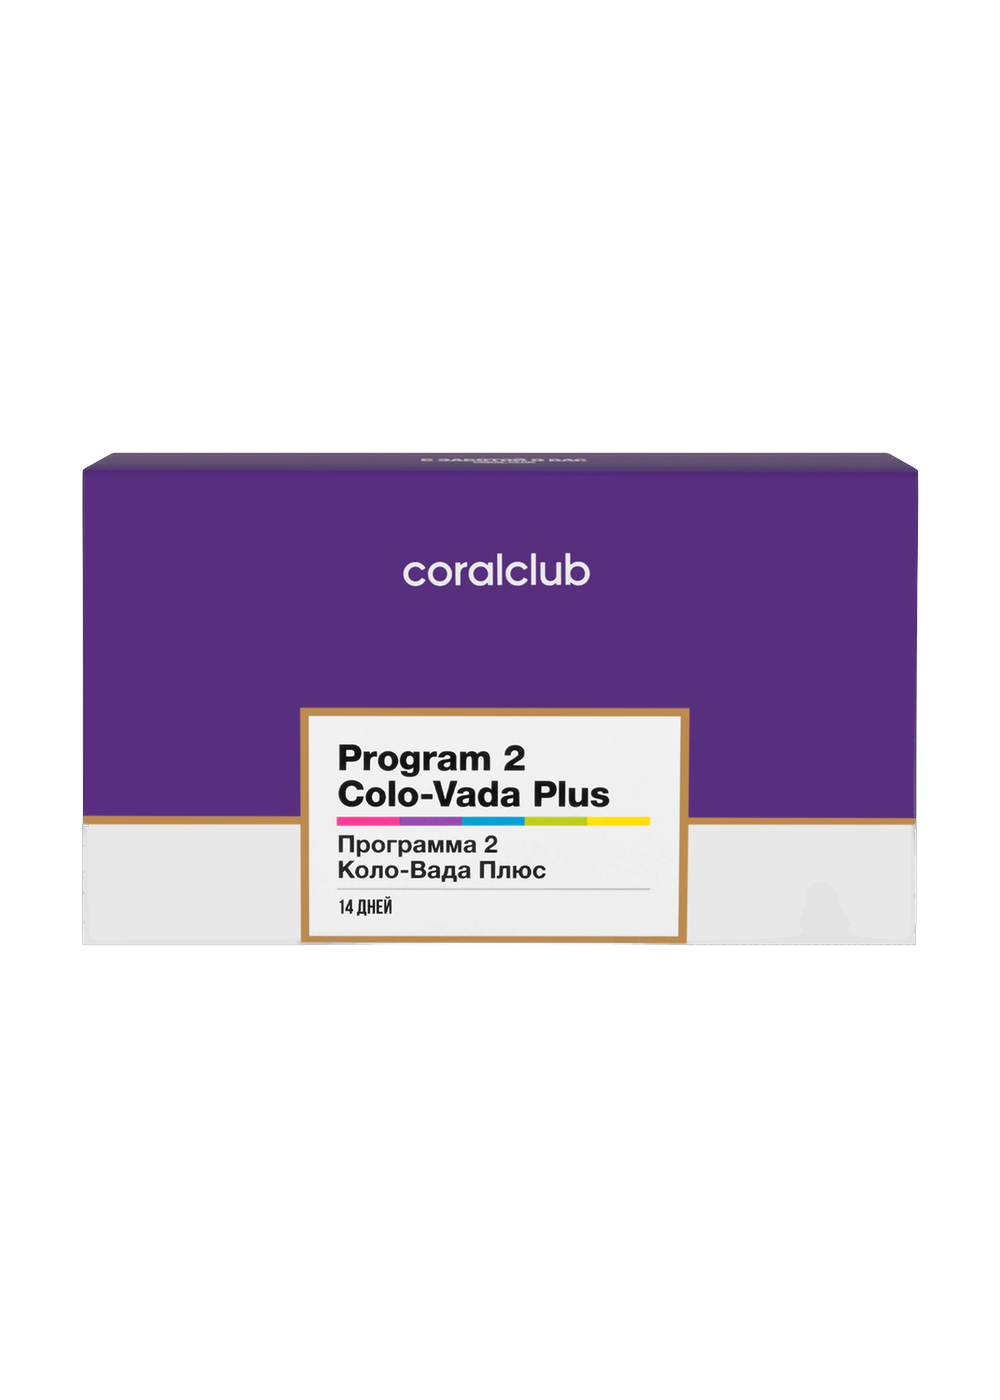
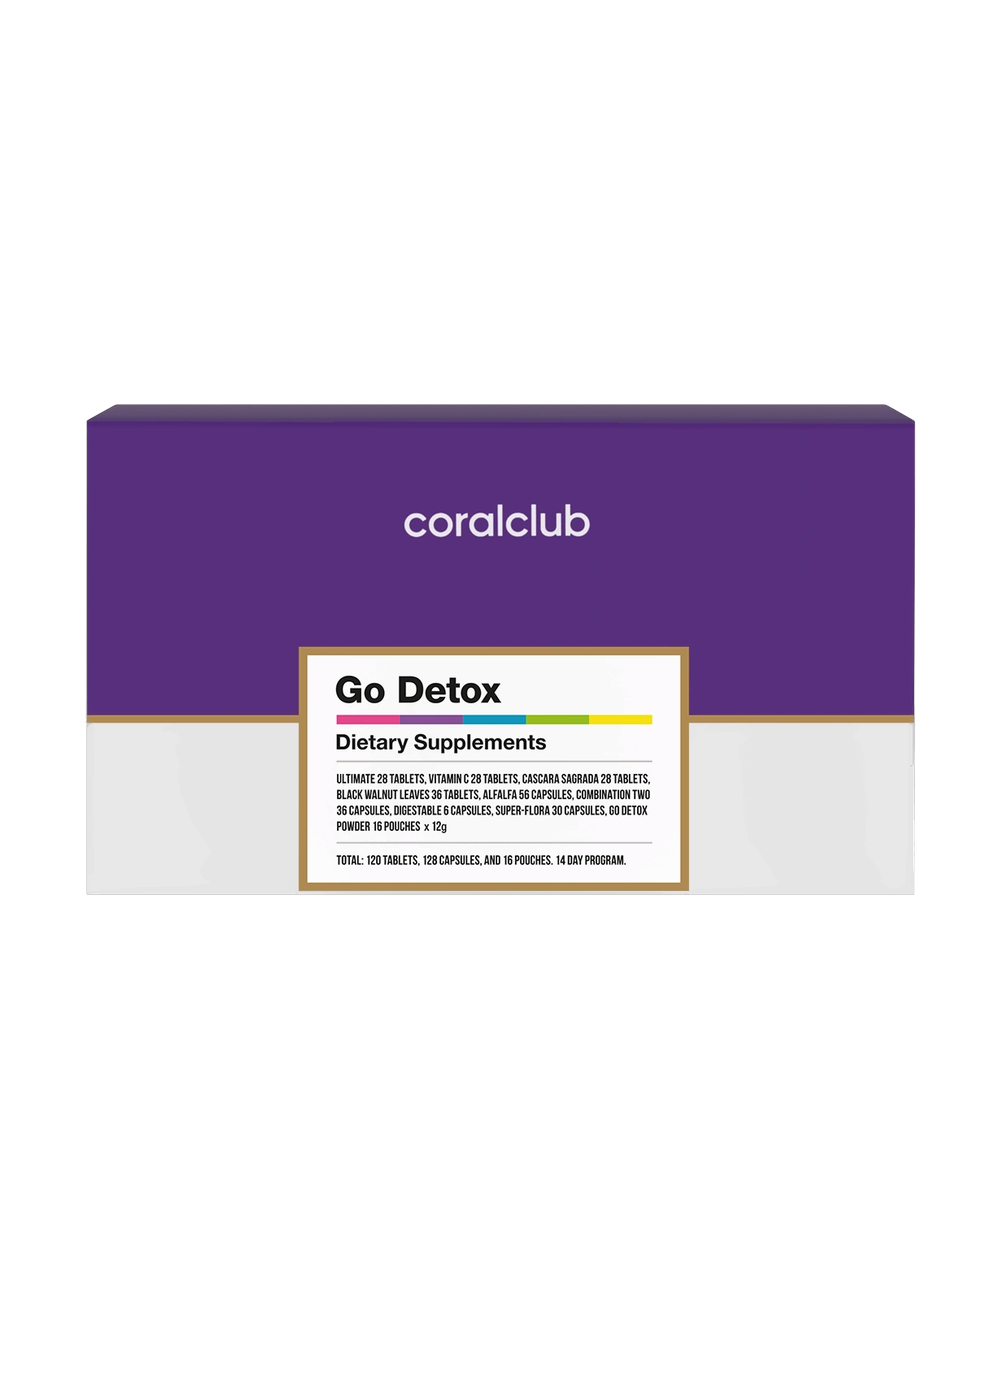
Colo-Vada Plus: pull real packshots from coralclub.us (sold there as "Go Detox")
The existing packshot was the Russian-label box; searching coralclub.us
for "Colo-Vada" finds nothing because the US product is named "Go Detox
14 Day Cleanse" (same price, $89.10/$111.38, confirming the match).
Cutout + reframed the real product photo and a full-set flat-lay from
coralclub.us onto the standard 1000x1400 canvas, replacing the stray
AI-generated lifestyle image (which was also the wrong variant — "Go
Detox Light", not this "14 Day Cleanse" set) in pdpImages.

Also fixes coralId (1200 -> the real 1210, from the US product page).

Changed region(s): [[0.062, 0.2764, 0.93, 0.6757], [0.403, 0.3686, 0.589, 0.43]]

diff --git a/src/lib/products.generated.ts b/src/lib/products.generated.ts
@@ -882,7 +882,7 @@ export const GENERATED_PRODUCTS: ProductContent[] = [
       "weight",
       "detox"
     ],
-    "coralId": "1200",
+    "coralId": "1210",
     "price": "$111.38",
     "clubPrice": "$89.10",
     "description": "A structured 14-day programme in three stages — preparation, active cleanse and recovery — for a thorough reset of the digestive tract.",
@@ -891,7 +891,7 @@ export const GENERATED_PRODUCTS: ProductContent[] = [
     ],
     "pdpImages": [
       "/images/products/colo-vada-plus.png",
-      "/images/products/ChatGPT Image Sep 11, 2026 at 12_28_27 PM.png"
+      "/images/products/colo-vada-plus-set.png"
     ],
     "howToUse": "Add one serving to water and take daily. Full directions coming soon.",
     "elements": [
@@ -1361,18 +1361,17 @@ export const GENERATED_PRODUCTS: ProductContent[] = [
       "weight"
     ],
     "coralId": "8036007",
-    "description": "A seven-day pack that supports the body's natural cleansing — antioxidants, fibre and a lecithin-based binder that eases the internal load before you go deeper.",
     "price": "$152.50",
     "clubPrice": "$122",
+    "description": "A seven-day pack that supports the body's natural cleansing — antioxidants, fibre and a lecithin-based binder that eases the internal load before you go deeper.",
     "carouselImages": [
-      "/images/products/coral-detox-plus.png"
+      "/images/products/coral-detox-plus.png",
+      "/images/products/ChatGPT Image Sep 11, 2026 at 10_51_36 PM.png"
     ],
     "pdpImages": [
-      "/images/products/coral-detox-plus.png"
+      "/images/products/coral-detox-plus.png",
+      "/images/products/ChatGPT Image Sep 11, 2026 at 10_51_36 PM.png"
     ],
-    "rating": 4.4,
-    "ratingsCount": 28,
-    "reviewsCount": 11,
     "howToUse": "Add one serving to water and take daily. Full directions coming soon.",
     "elements": [
       {
@@ -1405,9 +1404,18 @@ export const GENERATED_PRODUCTS: ProductContent[] = [
       "ingredients": "Assimilator ×1 (90 veg capsules), H-500 ×1 (60 capsules), Coral Alfalfa ×1 (120 capsules), Sunflower Lecithin ×1 (120 veg capsules), PentoKan ×2 (40 effervescent tablets), Coral-Mine ×3 (30 sachets).",
       "supplementFacts": {
         "servingLabel": "Amount Per Serving",
-        "rows": []
+        "rows": [
+          {
+            "name": "–",
+            "amount": "–",
+            "dv": ""
+          }
+        ]
       }
-    }
+    },
+    "rating": 4.4,
+    "ratingsCount": 28,
+    "reviewsCount": 11
   },
   {
     "slug": "coral-detox",
